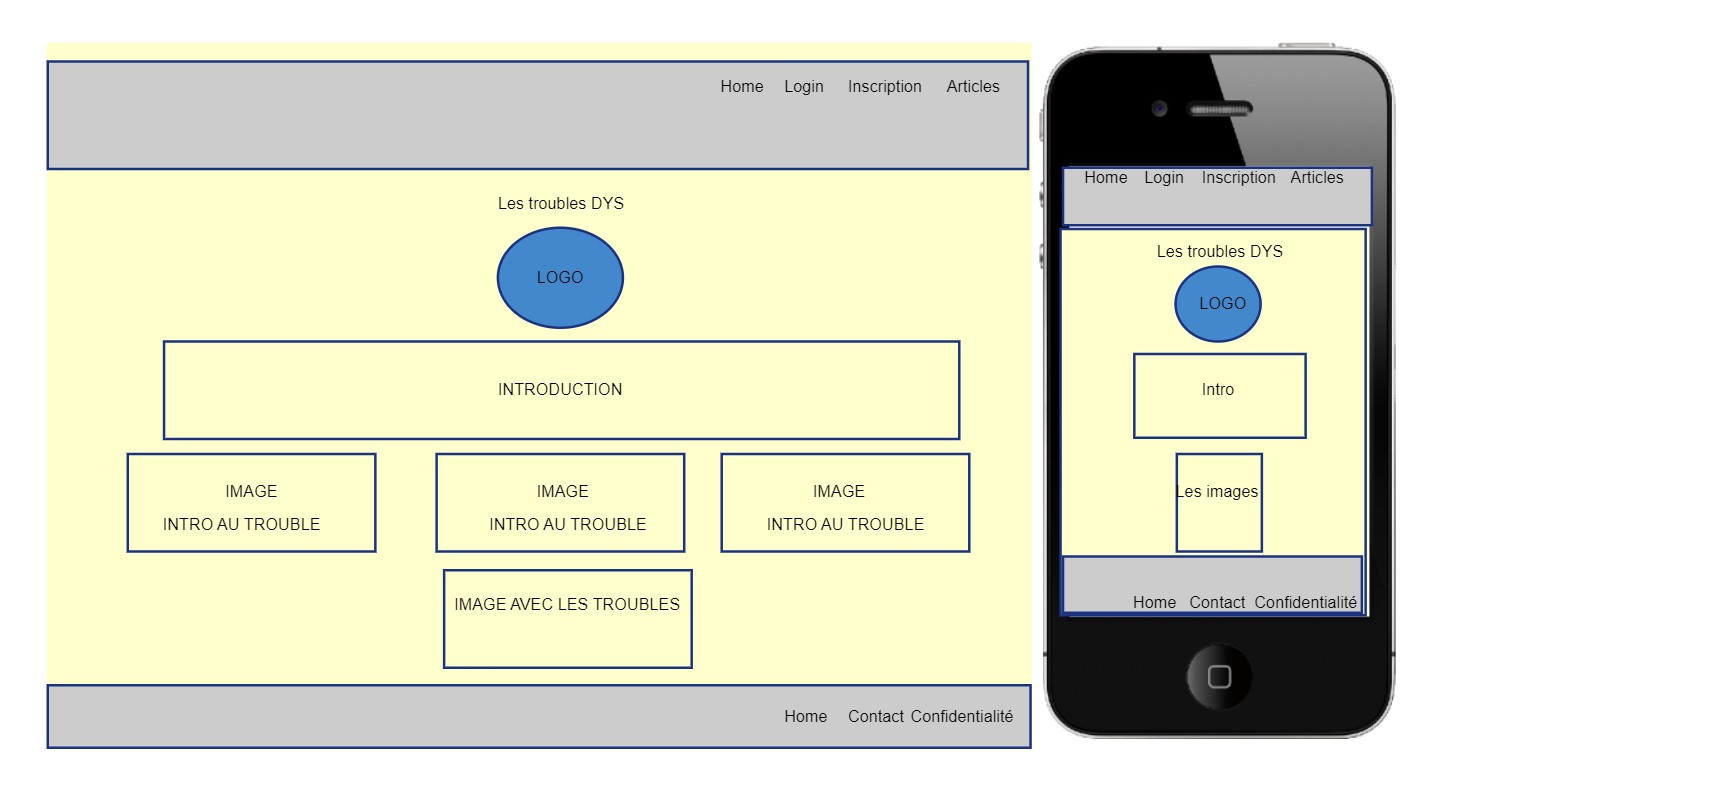
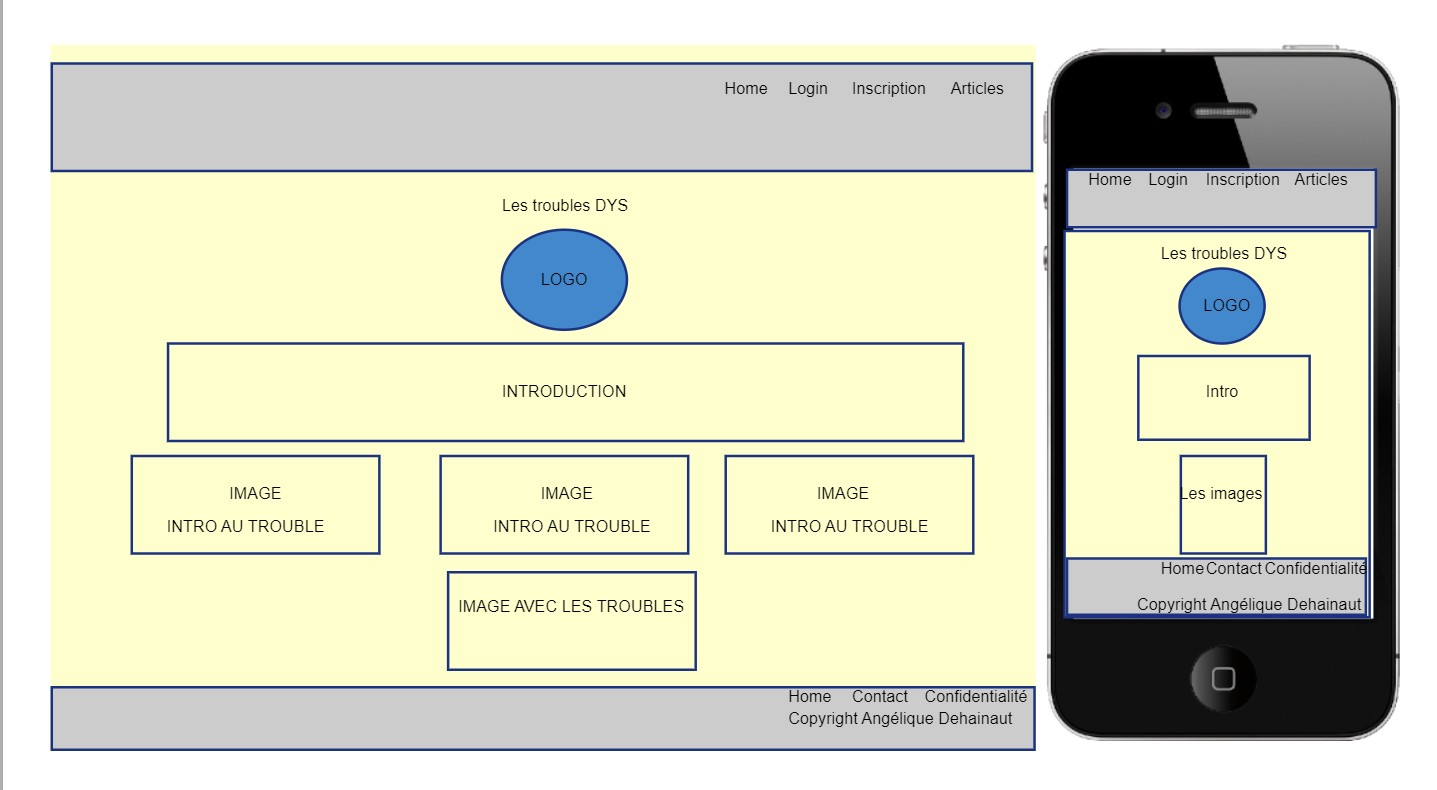
mockup

diff --git a/Controller/ArticleController.php b/Controller/ArticleController.php
@@ -64,7 +64,7 @@ class ArticleController extends AbstractController
             ;
 
             if (ArticleManager::addNewArticle($article, $title,$summary,$image, $content, $_SESSION['user']->getId())) {
-                $_SESSION['error'] = "votre article as bien etait ajouté";
+                $_SESSION['error'] = "votre article a bien été ajouté";
                 header('Location: /index.php?c=home&a=home');
             }
         }else {

diff --git a/View/base.html.php b/View/base.html.php
@@ -64,6 +64,7 @@ if (isset($_SESSION['error'])) {?>
         <a href="/?c=home">Home</a>
         <a href="/?c=user&a=save-form">Contact</a>
         <a href="/?c=confidentiality&a=confidentiality">Confidentialité</a>
+        <p>&copy; Angélique Dehainaut</p>
     </div>
 </footer>
 
